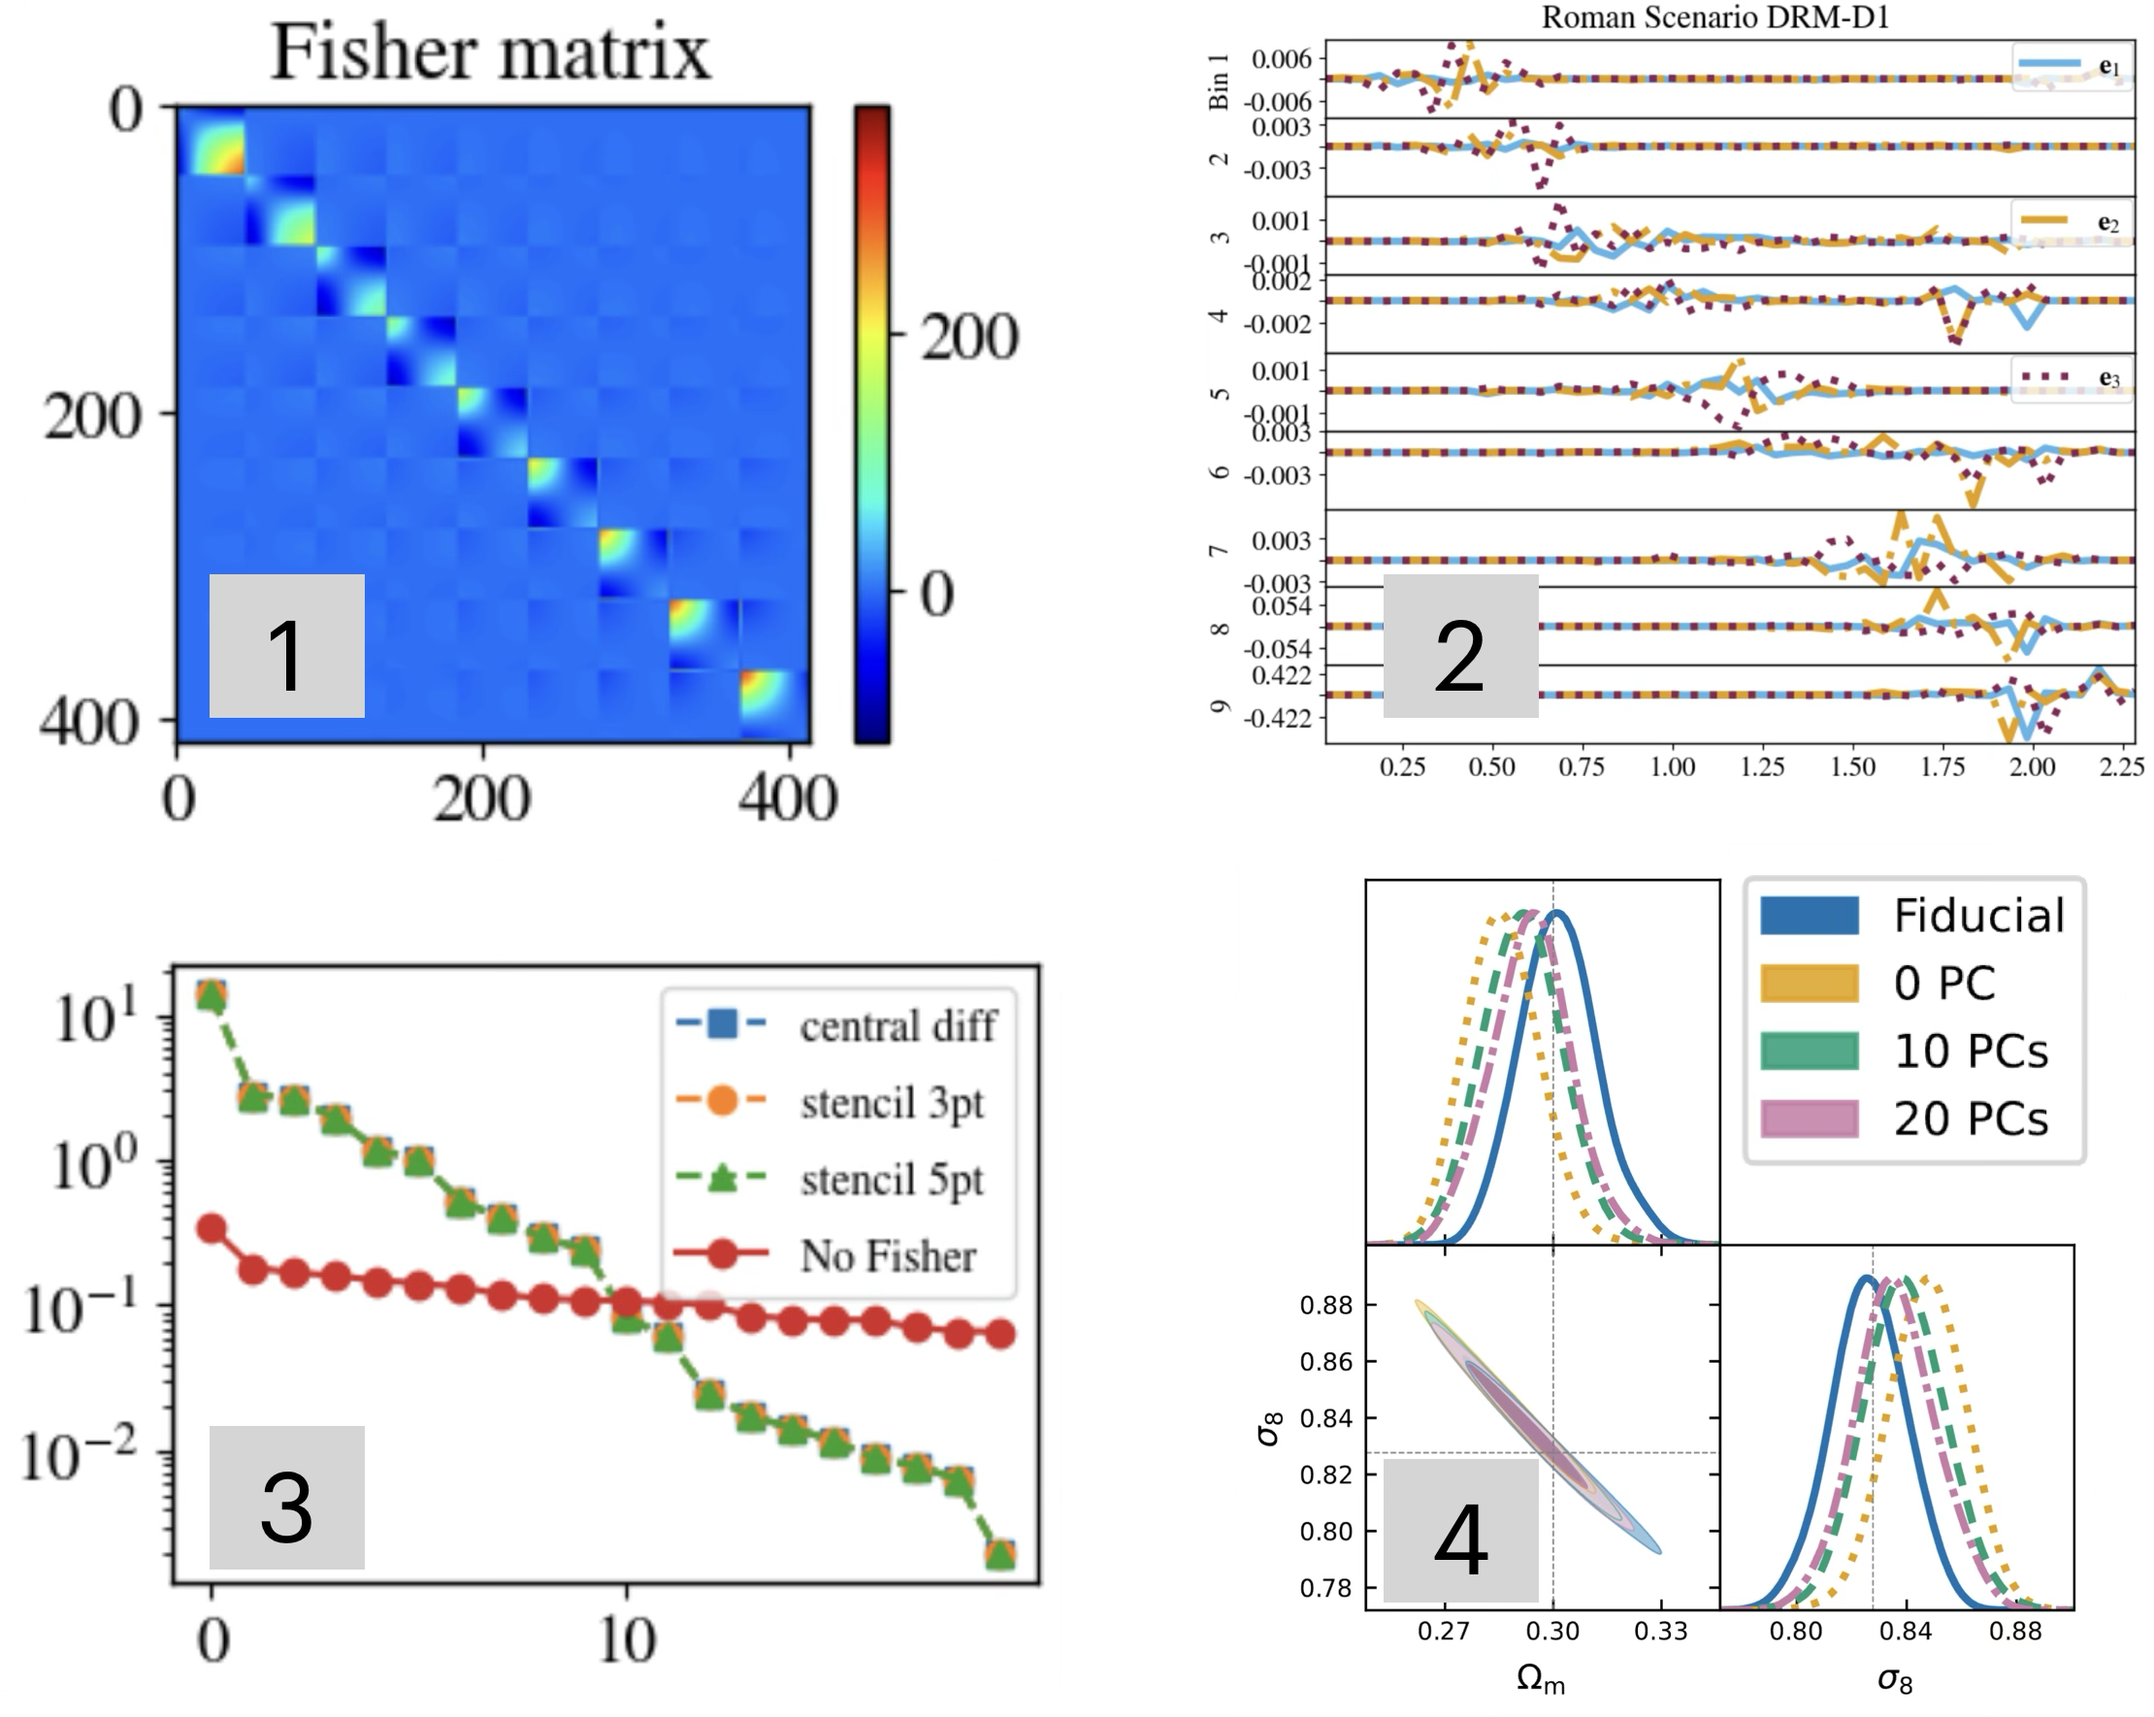
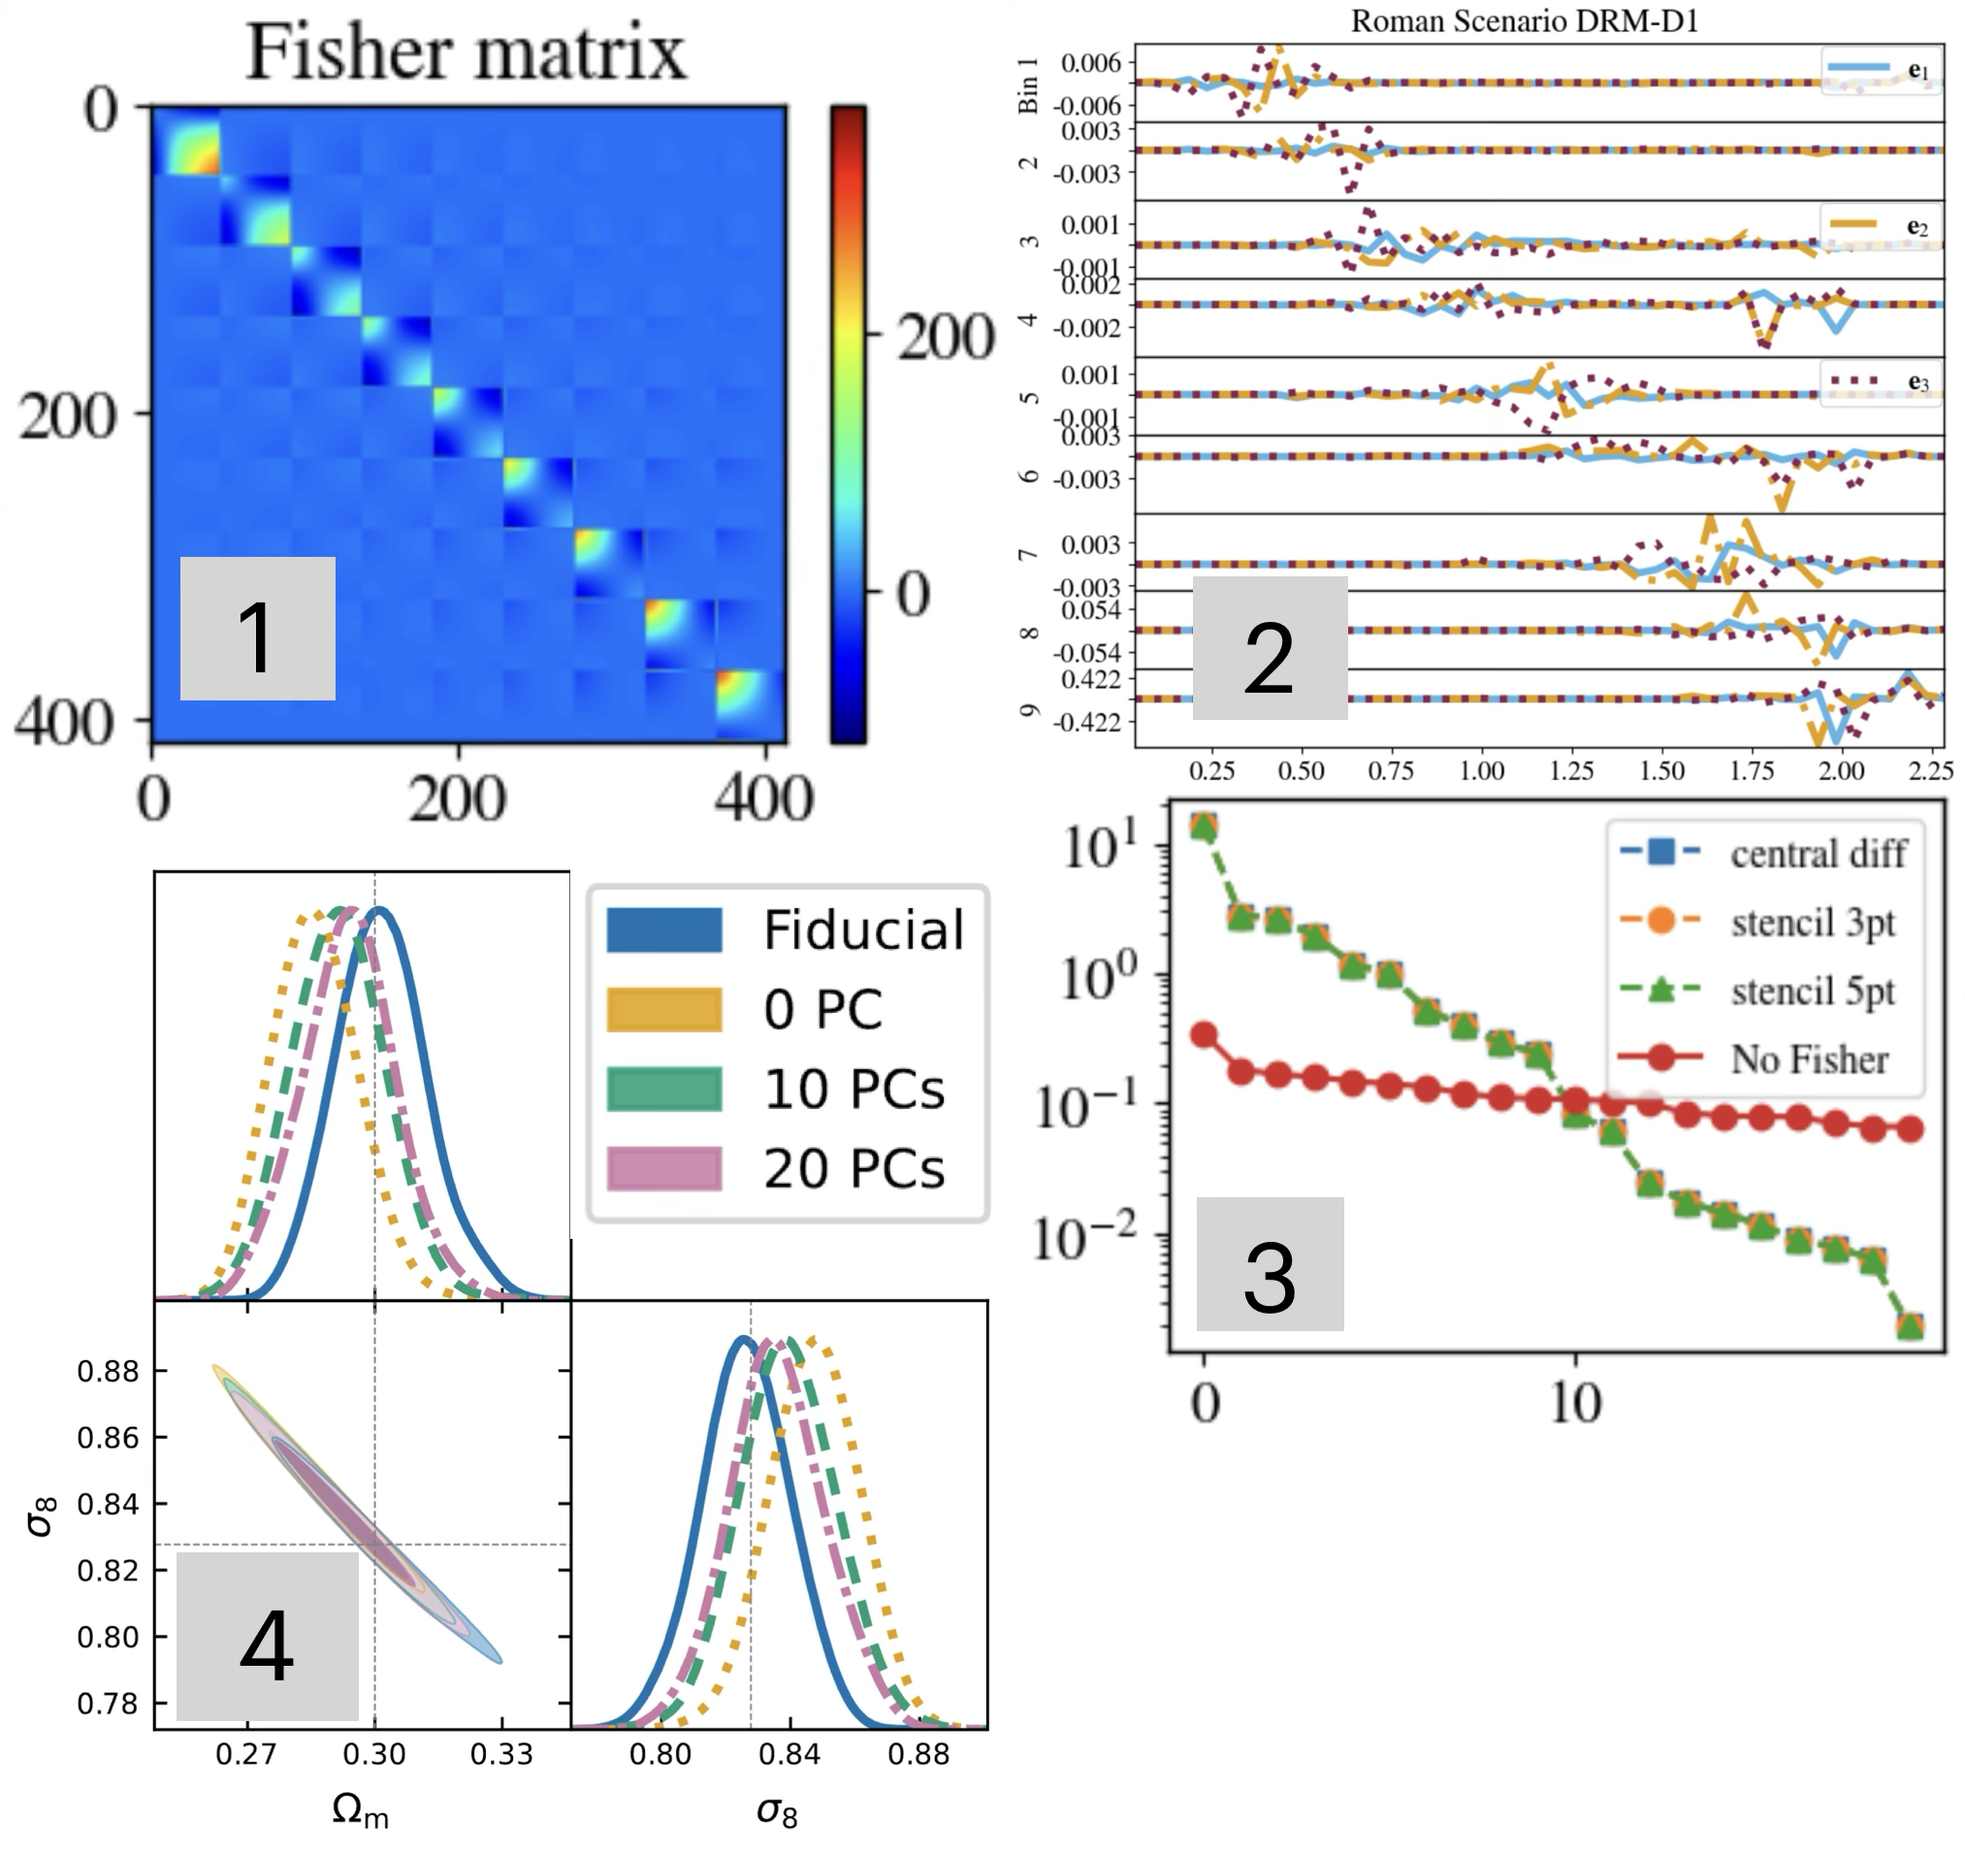
readme update

Changed region(s): [[0.0, 0.0, 0.9951, 0.9944], [0.5286, 0.5904, 0.5597, 0.6215]]

diff --git a/README.md b/README.md
@@ -1,8 +1,9 @@
-# PCA model for n(z)  
+#  PCA model for n(z)  
 Any questions, please contact me.
 
-<!-- ![Alt text](results/figures/readme_figures/readme_figure.png) -->
-[<img src="results/figures/readme_figures/readme_figure.png" width="400" />](results/figures/readme_figures/readme_figure.png)
+<p align="center">
+  <img src="results/figures/readme_figures/readme_figure.png" alt="Alt text" width="400">
+</p>
 
 ## Introduction  
 The PCA model for n(z) is described in the paper 2506.00758 developed for DES Y6 using [CosmoSIS](https://cosmosis.readthedocs.io/en/latest/). The pipeline cocoa_photoz implement new codes and modify some of [CoCoA](https://github.com/CosmoLike/cocoa)'s codes to, in a general view: *(i)* find the Fisher matrix, $F$, *(ii)* find the principal components (or modes), $\mathrm{e}_i(z)$, and its associated amplitudes, $\alpha_i$, and *(iii)* provide `yaml` files to run MCMCs with this PCA model of the redshift distribution $n(z)=\bar{n}(z)+\sum\alpha_i\mathrm{e}_i(z)$. Several intermediate steps and validation process are necessary to accomplish these three general milestones, which are explained in the paper 1234.5678. As a case of study, this new photo-z mitigation approach is applied to Roman High Latitude Wide Area Survey.     
